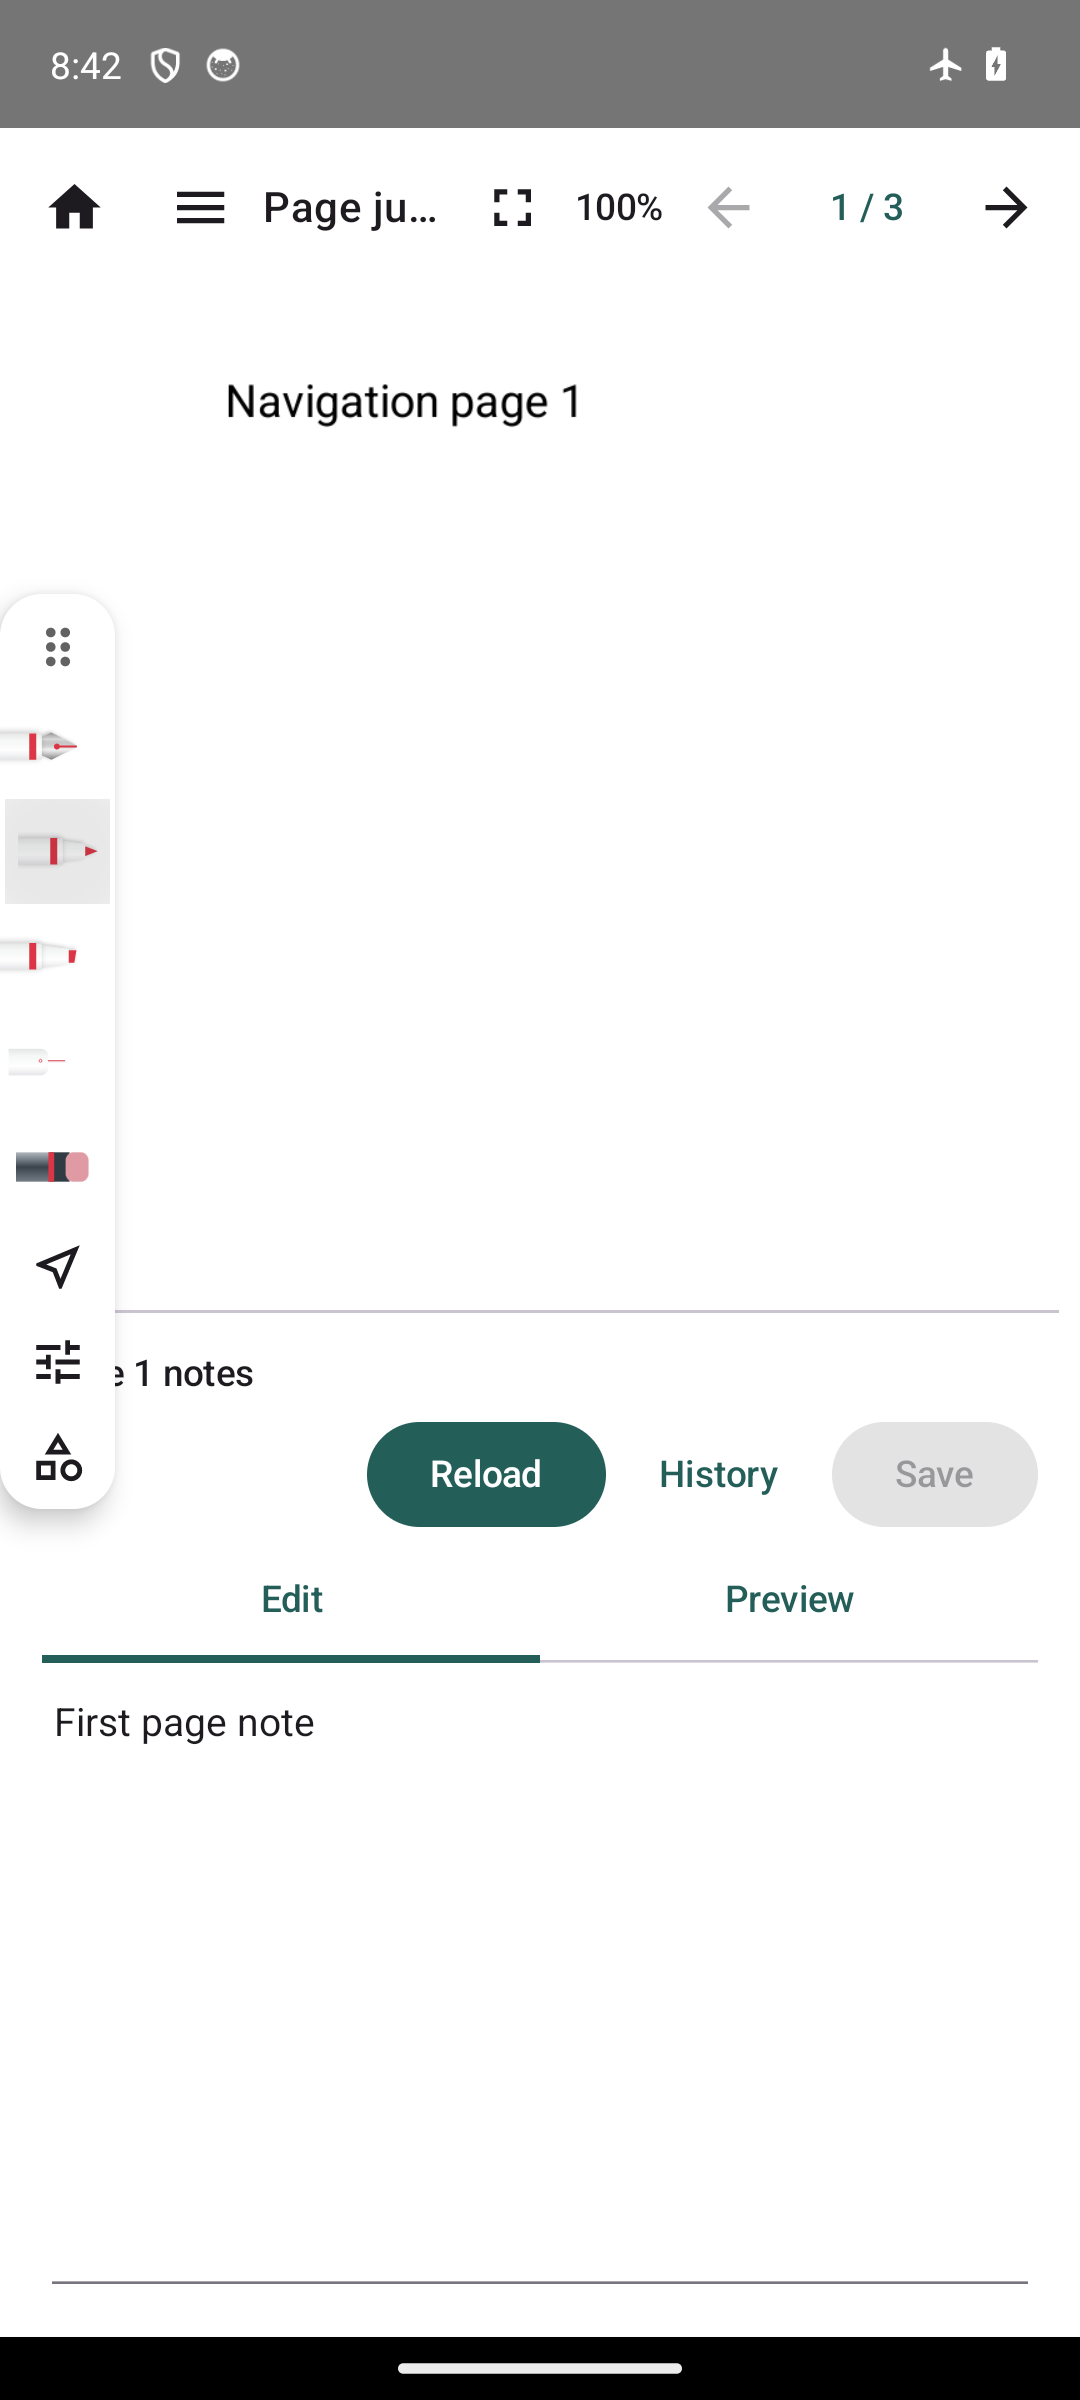
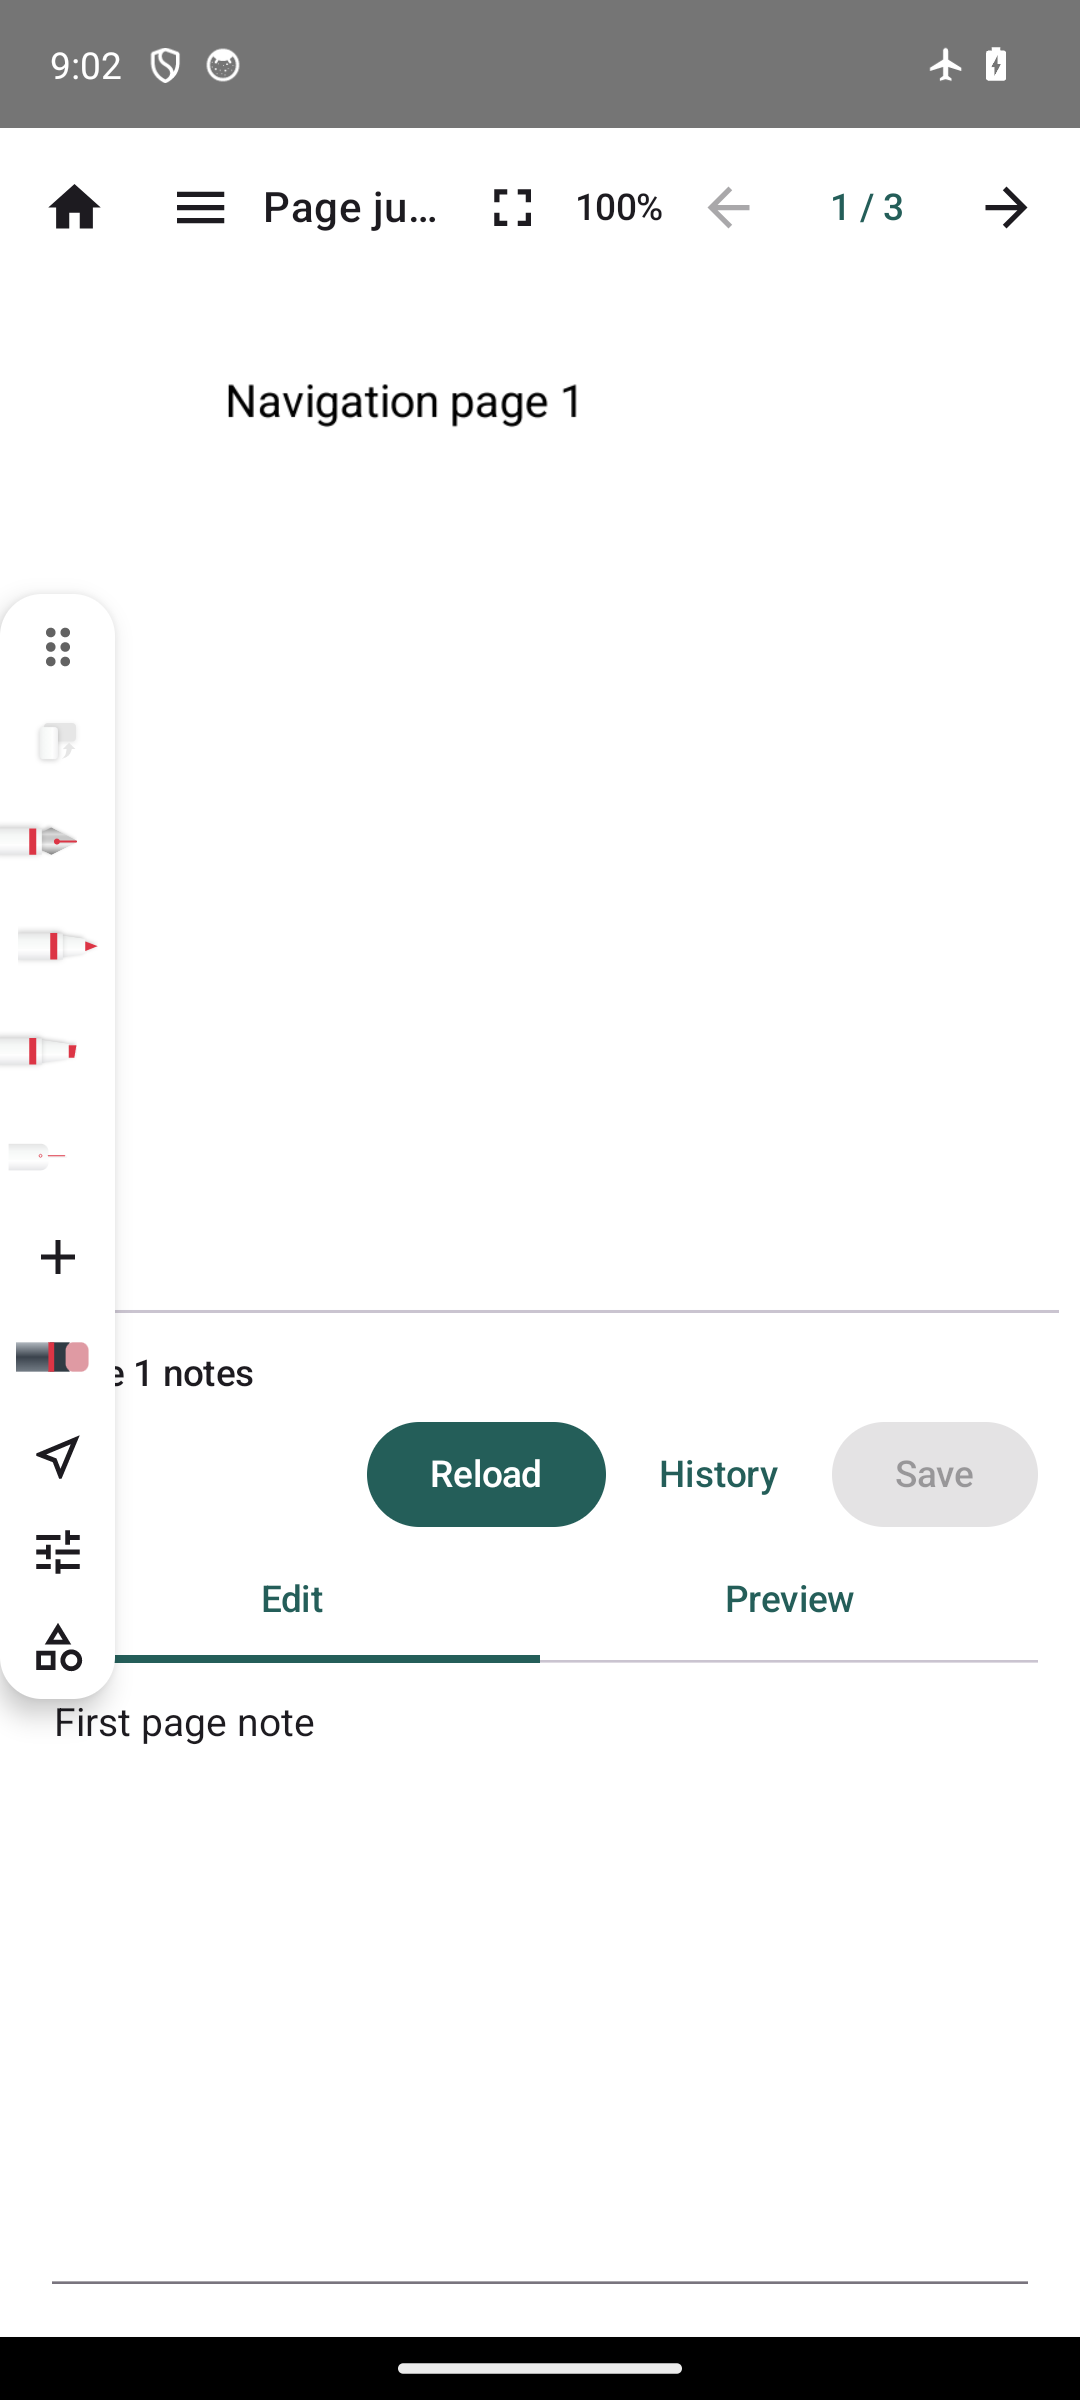
docs(android): update pen box group evidence

diff --git a/android/app/src/androidTest/java/io/pagenote/android/NoteUiEvidenceTest.kt b/android/app/src/androidTest/java/io/pagenote/android/NoteUiEvidenceTest.kt
@@ -40,6 +40,10 @@ class NoteUiEvidenceTest {
     compose.waitForIdle()
     compose.onNodeWithTag("floating_pen_box").assertExists()
     capture("pen-box")
+    compose.onNodeWithTag("floating_pen_groups").performClick()
+    compose.waitForIdle()
+    capture("pen-groups")
+    InstrumentationRegistry.getInstrumentation().uiAutomation.performGlobalAction(android.accessibilityservice.AccessibilityService.GLOBAL_ACTION_BACK)
     compose.onNodeWithTag("reader_pen_pen").performClick()
     compose.onNodeWithTag("reader_pen_style_menu").assertExists()
     compose.waitForIdle()

diff --git a/docs/android/guide/README.md b/docs/android/guide/README.md
@@ -66,7 +66,7 @@
 
 从 **阅读器笔工具** 进入。笔盒覆盖在画布上，拖动可吸附到四边；点击手柄收起或展开，长按手柄锁定或解锁位置。点击笔选择，再次点击打开颜色和粗细设置；可添加、复制或移除笔槽，长按笔槽拖动排序。点击笔盒组按钮可新建、切换或复制一组，在编辑入口重命名或删除。选中已有笔迹后，可使用笔盒中的样式按钮调整颜色和粗细。笔槽、笔盒组和位置存于本机，不改变笔迹文件格式。橡皮沿经过的区域局部擦除钢笔、圆珠笔和荧光笔笔迹，一次擦除可整体撤销；切页或切换项目时未结束的擦除会取消。识形生成的独立图形暂不支持区域橡皮。参考应用的贴纸等尚未移植；真机笔迹、触控与视觉效果仍需验证。
 
-截图：[改前](images/floating-penbox/before.png)、[改后](images/floating-penbox/after.png)、[样式菜单](images/floating-penbox/style.png)、[收起](images/floating-penbox/collapsed.png)，[环境与运行版本](images/floating-penbox/README.md)。横屏和平板截图、维护者视觉审查仍待补充。
+截图：[改前](images/floating-penbox/before.png)、[改后](images/floating-penbox/after.png)、[样式菜单](images/floating-penbox/style.png)、[笔盒组](images/floating-penbox/groups.png)、[收起](images/floating-penbox/collapsed.png)，[环境与运行版本](images/floating-penbox/README.md)。横屏和平板截图、维护者视觉审查仍待补充。
 
 <a id="module-9"></a>
 

diff --git a/docs/android/guide/images/floating-penbox/README.md b/docs/android/guide/images/floating-penbox/README.md
@@ -4,6 +4,6 @@
 
 - 环境：Android 14、ARM64 模拟器、1080 × 2400、420 dpi、浅色主题。
 - `before.png`：原笔栏，运行代码 `67e59a0b0efc54c920a09971e704eb65e6ffc030`。
-- `after.png`：浮动笔盒，运行代码 `ef2d84173d8e40c71989d09abe10410fc9f9a53c`；与改前图使用相同的 PDF 测试页面。
-- `style.png`、`collapsed.png`：同一改后代码的样式菜单和收起状态，使用另一合成项目。
+- `after.png`：浮动笔盒，运行代码 `42bd53375a1221935e3a63fde67164e4b4b3f013`；与改前图使用相同的 PDF 测试页面。
+- `style.png`、`collapsed.png`、`groups.png`：同一改后代码的样式菜单、收起和笔盒组菜单，使用另一合成项目。
 - 拖动吸附、排序和复制的操作由 `FloatingPenBoxTest` 在模拟器中执行；这里的静态图不能证明动态手势、像素级一致或真机体验。横屏和平板完整界面仍待补充。
